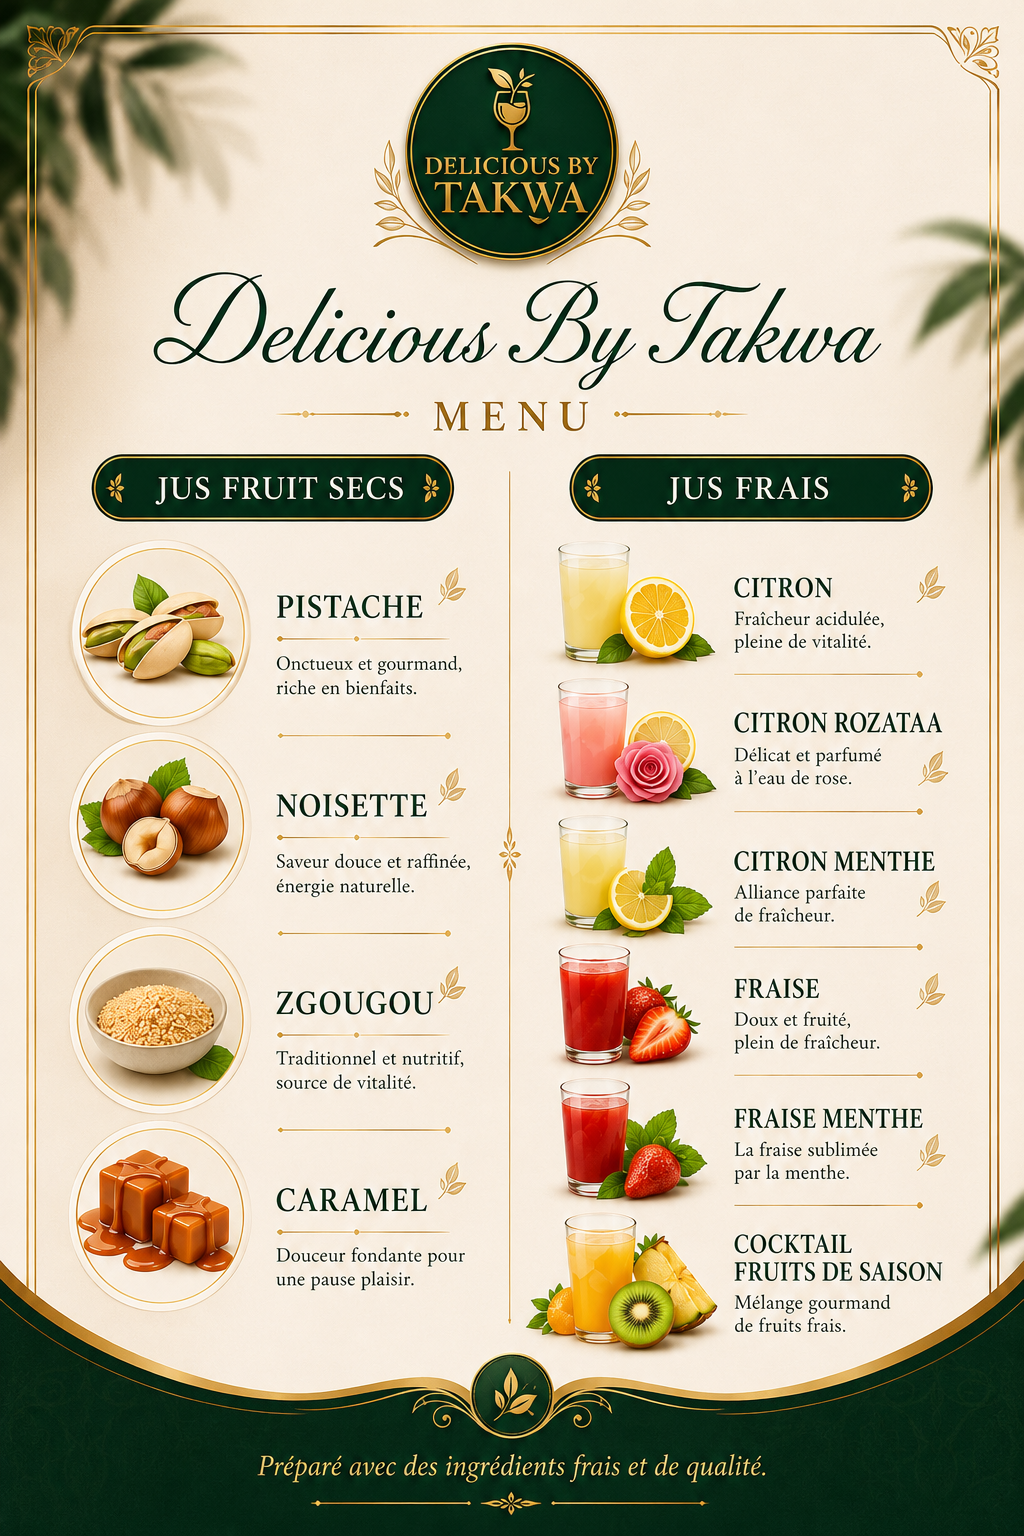
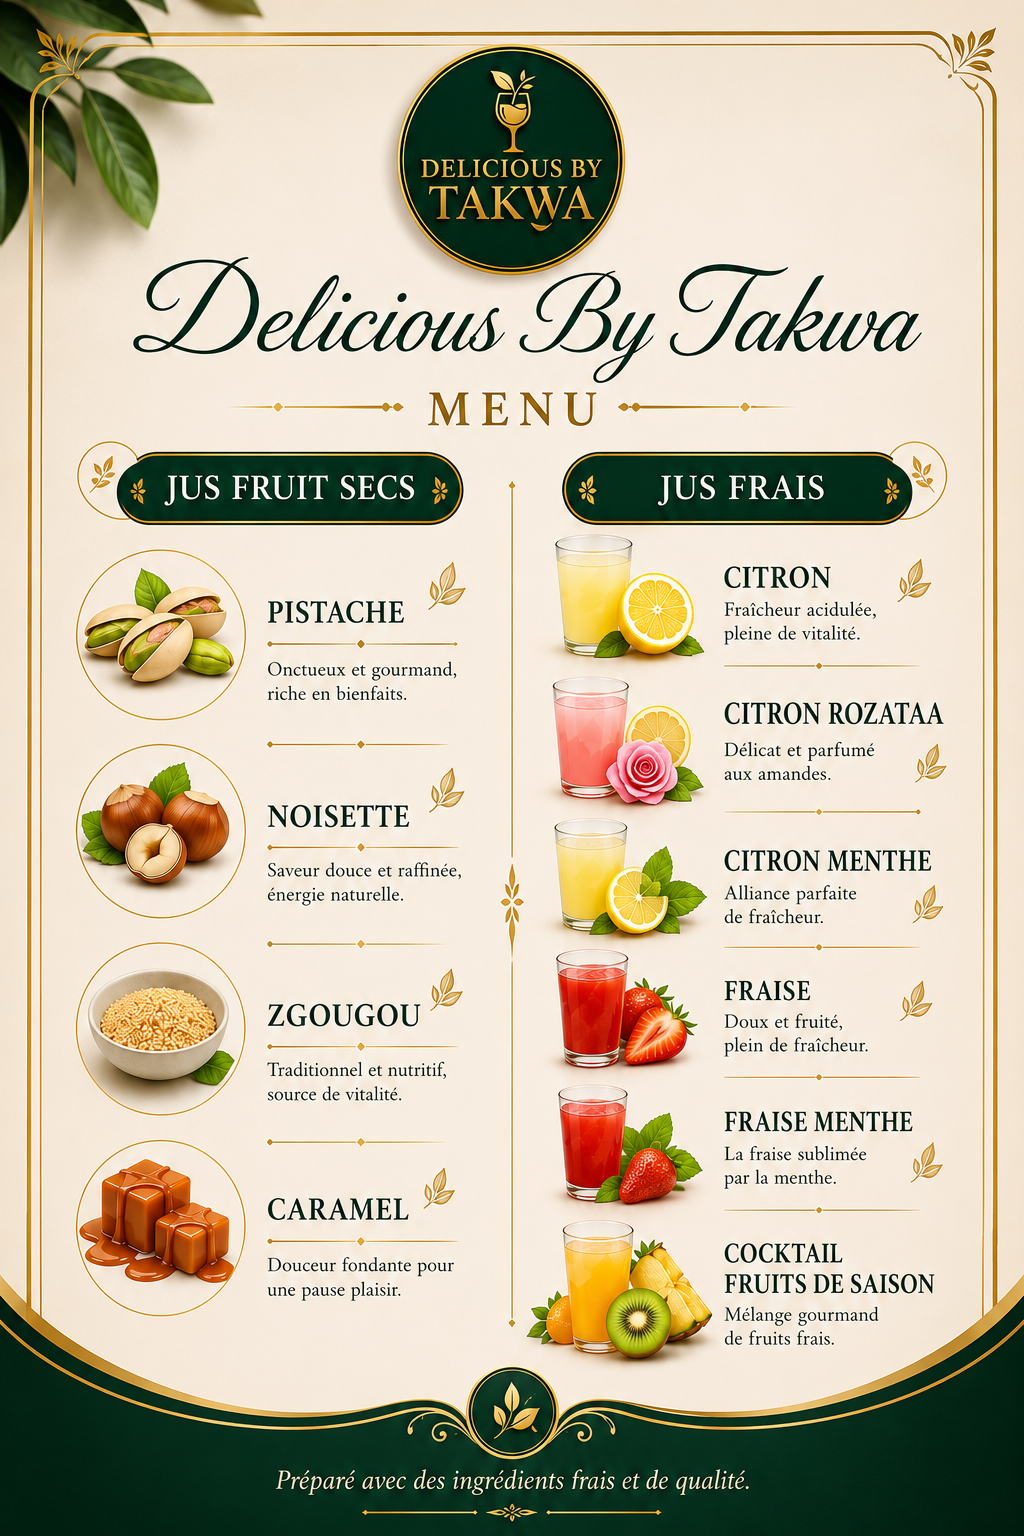
Update Takwa menu poster

Changed region(s): [[0.0, 0.0, 1.0, 1.0]]

diff --git a/index.html b/index.html
@@ -13,13 +13,13 @@
         }
 
         :root {
-            --green: #052f20;
-            --deep-green: #011e15;
+            --green: #03291c;
+            --deep-green: #011711;
             --cream: #fff7e9;
-            --gold: #c79435;
-            --gold-soft: #f0ca73;
-            --ink: #143024;
-            --shadow: 0 24px 70px rgba(1, 19, 13, 0.35);
+            --gold: #c79534;
+            --gold-soft: #f6d488;
+            --ink: #0c2b20;
+            --shadow: 0 24px 70px rgba(1, 19, 13, 0.34);
         }
 
         body {
@@ -27,10 +27,10 @@
             font-family: "Segoe UI", Arial, sans-serif;
             color: var(--cream);
             background:
-                radial-gradient(circle at 15% 8%, rgba(240, 202, 115, 0.2), transparent 24%),
-                radial-gradient(circle at 85% 15%, rgba(255, 247, 233, 0.14), transparent 26%),
-                linear-gradient(145deg, var(--deep-green), var(--green) 48%, #02150f);
-            padding: clamp(14px, 3vw, 34px);
+                radial-gradient(circle at 18% 8%, rgba(246, 212, 136, 0.22), transparent 25%),
+                radial-gradient(circle at 82% 14%, rgba(255, 247, 233, 0.16), transparent 28%),
+                linear-gradient(145deg, var(--deep-green), var(--green) 48%, #02130e);
+            padding: clamp(10px, 3vw, 34px);
         }
 
         .page {
@@ -38,14 +38,13 @@
             margin: 0 auto;
         }
 
-        .poster-shell {
-            position: relative;
-            padding: clamp(8px, 1.5vw, 14px);
-            border: 1px solid rgba(240, 202, 115, 0.65);
+        .poster-frame {
+            padding: clamp(6px, 1.4vw, 14px);
+            border: 1px solid rgba(246, 212, 136, 0.72);
             border-radius: 8px;
             background:
-                linear-gradient(135deg, rgba(255, 247, 233, 0.22), rgba(199, 148, 53, 0.08)),
-                rgba(1, 30, 21, 0.86);
+                linear-gradient(135deg, rgba(255, 247, 233, 0.24), rgba(199, 149, 52, 0.1)),
+                rgba(1, 23, 17, 0.86);
             box-shadow: var(--shadow);
         }
 
@@ -71,10 +70,10 @@
             justify-content: center;
             min-height: 44px;
             padding: 11px 16px;
-            border: 1px solid rgba(240, 202, 115, 0.78);
+            border: 1px solid rgba(246, 212, 136, 0.78);
             border-radius: 8px;
             color: var(--cream);
-            background: rgba(1, 30, 21, 0.76);
+            background: rgba(1, 23, 17, 0.76);
             font-size: 14px;
             font-weight: 800;
             text-decoration: none;
@@ -92,7 +91,7 @@
 
         .btn-primary {
             color: var(--ink);
-            background: linear-gradient(180deg, #ffe7a3, var(--gold));
+            background: linear-gradient(180deg, #ffe9aa, var(--gold));
         }
 
         .info {
@@ -105,7 +104,7 @@
         .info-item {
             min-height: 62px;
             padding: 12px;
-            border: 1px solid rgba(240, 202, 115, 0.45);
+            border: 1px solid rgba(246, 212, 136, 0.45);
             border-radius: 8px;
             background: rgba(255, 247, 233, 0.08);
             text-align: center;
@@ -133,9 +132,8 @@
                 padding: 10px;
             }
 
-            .actions,
-            .info {
-                grid-template-columns: 1fr;
+            .actions {
+                justify-content: stretch;
             }
 
             .btn {
@@ -145,7 +143,7 @@
             }
 
             .info {
-                display: grid;
+                grid-template-columns: 1fr;
             }
         }
 
@@ -158,7 +156,7 @@
 </head>
 <body>
     <main class="page" aria-label="Menu Delicious by Takwa">
-        <section class="poster-shell" aria-label="Affiche du menu">
+        <section class="poster-frame" aria-label="Affiche du menu">
             <img class="poster" src="assets/menu-takwa.png" alt="Menu Delicious by Takwa avec jus fruits secs: pistache, noisette, zgougou, caramel, et jus frais: citron, citron rozataa, citron menthe, fraise, fraise menthe, cocktail fruits de saison.">
         </section>
 